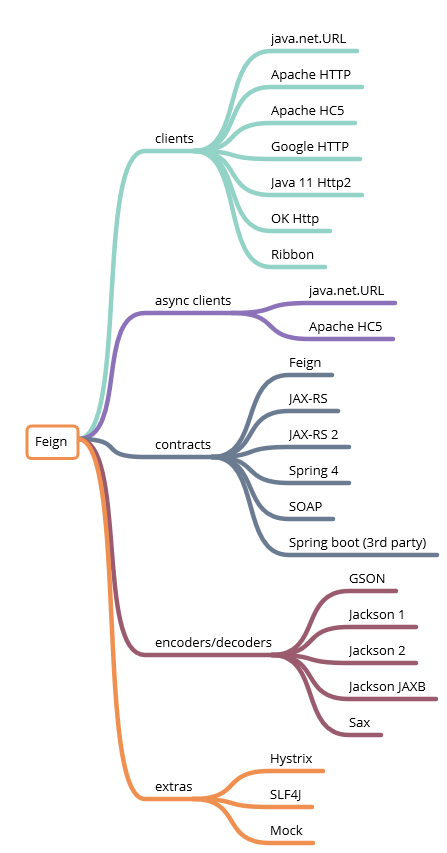
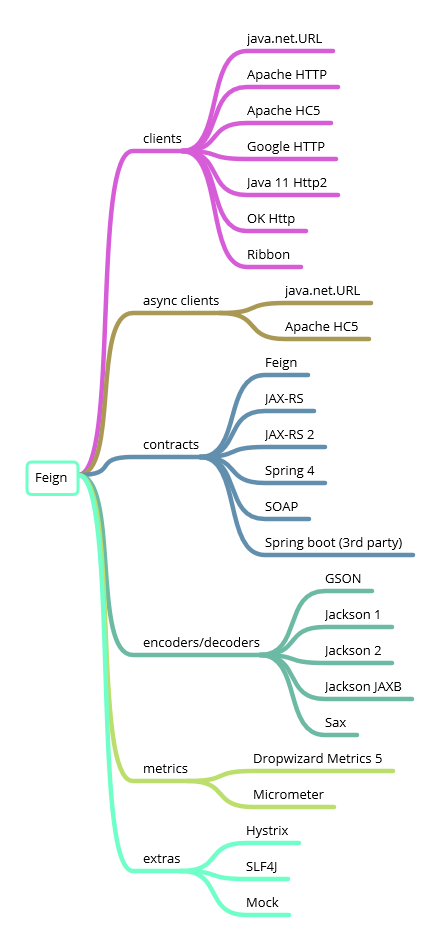
Update documentation with metrics information

Changed region(s): [[0.0307, 0.0305, 0.9835, 1.0]]

diff --git a/dropwizard-metrics5/src/test/java/feign/metrics5/Metrics5CapabilityTest.java b/dropwizard-metrics5/src/test/java/feign/metrics5/Metrics5CapabilityTest.java
@@ -56,12 +56,11 @@ public class Metrics5CapabilityTest {
         "Expect all metric names to include method name:" + metricName,
         metricName.getTags(),
         hasEntry("method", "get")));
-    registry.getMetrics().keySet().forEach(
-        metricName -> assertThat(
-            "Expect all metric names to include host name:" + metricName,
-            metricName.getTags(),
-            // hostname is null due to feign-mock shortfalls
-            hasEntry("host", null)));
+    registry.getMetrics().keySet().forEach(metricName -> assertThat(
+        "Expect all metric names to include host name:" + metricName,
+        metricName.getTags(),
+        // hostname is null due to feign-mock shortfalls
+        hasEntry("host", null)));
   }
 
 }

diff --git a/README.md b/README.md
@@ -26,10 +26,10 @@ This is a map with current key features provided by feign:
 ![MindMap overview](src/docs/overview.png)
 
 # Roadmap
-## Feign 11 and beyond 
+## Feign 11 and beyond
 Making _API_ clients easier
 
-Short Term - What we're working on now. ⏰ 
+Short Term - What we're working on now. ⏰
 ---
 * Response Caching
   * Support caching of api responses.  Allow for users to define under what conditions a response is eligible for caching and what type of caching mechanism should be used.
@@ -42,22 +42,20 @@ Short Term - What we're working on now. ⏰
 * `Retry` API refactor
   * Refactor the `Retry` API to support user-supplied conditions and better control over back-off policies. **This may result in non-backward-compatible breaking changes**
 
-Medium Term - What's up next. ⏲ 
+Medium Term - What's up next. ⏲
 ---
-* Metric API
-  * Provide a first-class Metrics API that users can tap into to gain insight into the request/response lifecycle.  Possibly provide better [OpenTracing](https://opentracing.io/) support.
 * Async execution support via `CompletableFuture`
   * Allow for `Future` chaining and executor management for the request/response lifecycle.  **Implementation will require non-backward-compatible breaking changes**.  However this feature is required before Reactive execution can be considered.
 * Reactive execution support via [Reactive Streams](https://www.reactive-streams.org/)
   * For JDK 9+, consider a native implementation that uses `java.util.concurrent.Flow`.
   * Support for [Project Reactor](https://projectreactor.io/) and [RxJava 2+](https://github.com/ReactiveX/RxJava) implementations on JDK 8.
 
-Long Term - The future ☁ 
+Long Term - The future ☁
 ---
 * Additional Circuit Breaker Support.
   * Support additional Circuit Breaker implementations like [Resilience4J](https://resilience4j.readme.io/) and Spring Circuit Breaker
 
----  
+---
 
 ### Basics
 
@@ -91,7 +89,7 @@ public class MyApp {
     GitHub github = Feign.builder()
                          .decoder(new GsonDecoder())
                          .target(GitHub.class, "https://api.github.com");
-  
+
     // Fetch and print a list of the contributors to this library.
     List<Contributor> contributors = github.contributors("OpenFeign", "feign");
     for (Contributor contributor : contributors) {
@@ -125,22 +123,22 @@ should work.  Feign's default contract defines the following annotations:
 > ```java
 > @RequestLine("POST /repos/{owner}/{repo}/issues")
 > void createIssue(URI host, Issue issue, @Param("owner") String owner, @Param("repo") String repo);
-> ``` 
-> 
+> ```
+>
 
 ### Templates and Expressions
 
 Feign `Expressions` represent Simple String Expressions (Level 1) as defined by [URI Template - RFC 6570](https://tools.ietf.org/html/rfc6570).  `Expressions` are expanded using
-their corresponding `Param` annotated method parameters.  
+their corresponding `Param` annotated method parameters.
 
 *Example*
 
 ```java
 public interface GitHub {
-  
+
   @RequestLine("GET /repos/{owner}/{repo}/contributors")
   List<Contributor> contributors(@Param("owner") String owner, @Param("repo") String repository);
-  
+
   class Contributor {
     String login;
     int contributions;
@@ -152,10 +150,10 @@ public class MyApp {
     GitHub github = Feign.builder()
                          .decoder(new GsonDecoder())
                          .target(GitHub.class, "https://api.github.com");
-    
+
     /* The owner and repository parameters will be used to expand the owner and repo expressions
      * defined in the RequestLine.
-     * 
+     *
      * the resulting uri will be https://api.github.com/repos/OpenFeign/feign/contributors
      */
     github.contributors("OpenFeign", "feign");
@@ -222,8 +220,8 @@ http://localhost:8080/test
 See [Advanced Usage](#advanced-usage) for more examples.
 
 > **What about slashes? `/`**
-> 
-> @RequestLine templates do not encode slash `/` characters by default.  To change this behavior, set the `decodeSlash` property on the `@RequestLine` to `false`.  
+>
+> @RequestLine templates do not encode slash `/` characters by default.  To change this behavior, set the `decodeSlash` property on the `@RequestLine` to `false`.
 
 > **What about plus? `+`**
 >
@@ -232,7 +230,7 @@ See [Advanced Usage](#advanced-usage) for more examples.
 > `+` symbol should not represent a space and is explicitly encoded as `%2B` when found on a query string.
 >
 > If you wish to use `+` as a space, then use the literal ` ` character or encode the value directly as `%20`
- 
+
 ##### Custom Expansion
 
 The `@Param` annotation has an optional property `expander` allowing for complete control over the individual parameter's expansion.
@@ -246,9 +244,9 @@ public interface Expander {
 The result of this method adheres to the same rules stated above.  If the result is `null` or an empty string,
 the value is omitted.  If the value is not pct-encoded, it will be.  See [Custom @Param Expansion](#custom-param-expansion) for more examples.
 
-#### Request Headers Expansion 
+#### Request Headers Expansion
 
-`Headers` and `HeaderMap` templates follow the same rules as [Request Parameter Expansion](#request-parameter-expansion) 
+`Headers` and `HeaderMap` templates follow the same rules as [Request Parameter Expansion](#request-parameter-expansion)
 with the following alterations:
 
 * Unresolved expressions are omitted.  If the result is an empty header value, the entire header is removed.
@@ -256,7 +254,7 @@ with the following alterations:
 
 See [Headers](#headers) for examples.
 
-> **A Note on `@Param` parameters and their names**: 
+> **A Note on `@Param` parameters and their names**:
 >
 > All expressions with the same name, regardless of their position on the `@RequestLine`, `@QueryMap`, `@BodyTemplate`, or `@Headers` will resolve to the same value.
 > In the following example, the value of `contentType`, will be used to resolve both the header and path expression:
@@ -268,12 +266,12 @@ See [Headers](#headers) for examples.
 >   String getDocumentByType(@Param("contentType") String type);
 > }
 >```
-> 
+>
 > Keep this in mind when designing your interfaces.
 
 #### Request Body Expansion
 
-`Body` templates follow the same rules as [Request Parameter Expansion](#request-parameter-expansion) 
+`Body` templates follow the same rules as [Request Parameter Expansion](#request-parameter-expansion)
 with the following alterations:
 
 * Unresolved expressions are omitted.
@@ -311,7 +309,7 @@ public class CloudService {
     CloudDNS cloudDNS = Feign.builder()
       .target(new CloudIdentityTarget<CloudDNS>(user, apiKey));
   }
-  
+
   class CloudIdentityTarget extends Target<CloudDNS> {
     /* implementation of a Target */
   }
@@ -571,7 +569,7 @@ public class Example {
     LoginClient client = Feign.builder()
                               .encoder(new GsonEncoder())
                               .target(LoginClient.class, "https://foo.com");
-    
+
     client.login(new Credentials("denominator", "secret"));
   }
 }
@@ -648,11 +646,11 @@ These approaches specify header entries as part of the api and do not require an
 when building the Feign client.
 
 #### Setting headers per target
-To customize headers for each request method on a Target, a RequestInterceptor can be used. RequestInterceptors can be 
-shared across Target instances and are expected to be thread-safe. RequestInterceptors are applied to all request 
+To customize headers for each request method on a Target, a RequestInterceptor can be used. RequestInterceptors can be
+shared across Target instances and are expected to be thread-safe. RequestInterceptors are applied to all request
 methods on a Target.
 
-If you need per method customization, a custom Target is required, as the a RequestInterceptor does not have access to 
+If you need per method customization, a custom Target is required, as the a RequestInterceptor does not have access to
 the current method metadata.
 
 For an example of setting headers using a `RequestInterceptor`, see the `Request Interceptors` section.
@@ -664,7 +662,7 @@ Headers can be set as part of a custom `Target`.
     public DynamicAuthTokenTarget(Class<T> clazz,
                                   UrlAndTokenProvider provider,
                                   ThreadLocal<String> requestIdProvider);
-    
+
     @Override
     public Request apply(RequestTemplate input) {
       TokenIdAndPublicURL urlAndToken = provider.get();
@@ -677,7 +675,7 @@ Headers can be set as part of a custom `Target`.
       return input.request();
     }
   }
-  
+
   public class Example {
     public static void main(String[] args) {
       Bank bank = Feign.builder()
@@ -755,7 +753,7 @@ public class Example {
 }
 ```
 
-> **A Note on JavaLogger**: 
+> **A Note on JavaLogger**:
 > Avoid using of default ```JavaLogger()``` constructor - it was marked as deprecated and will be removed soon.
 
 The SLF4JLogger (see above) may also be of interest.
@@ -898,11 +896,48 @@ public class Example {
 ```
 
 `Retryer`s are responsible for determining if a retry should occur by returning either a `true` or
-`false` from the method `continueOrPropagate(RetryableException e);`  A `Retryer` instance will be 
+`false` from the method `continueOrPropagate(RetryableException e);`  A `Retryer` instance will be
 created for each `Client` execution, allowing you to maintain state bewteen each request if desired.
 
 If the retry is determined to be unsuccessful, the last `RetryException` will be thrown.  To throw the original
 cause that led to the unsuccessful retry, build your Feign client with the `exceptionPropagationPolicy()` option.
+
+### Metrics
+By default, feign won't collect any metrics.
+
+But, it's possible to add metric collection capabilities to any feign client.
+
+Metric Capabilities provide a first-class Metrics API that users can tap into to gain insight into the request/response lifecycle.
+
+#### Dropwizard Metrics 5
+
+```
+public class MyApp {
+  public static void main(String[] args) {
+    GitHub github = Feign.builder()
+                         .addCapability(new Metrics5Capability())
+                         .target(GitHub.class, "https://api.github.com");
+
+    github.contributors("OpenFeign", "feign");
+    // metrics will be available from this point onwards
+  }
+}
+```
+
+#### Micrometer
+
+```
+public class MyApp {
+  public static void main(String[] args) {
+    GitHub github = Feign.builder()
+                         .addCapability(new MicrometerCapability())
+                         .target(GitHub.class, "https://api.github.com");
+
+    github.contributors("OpenFeign", "feign");
+    // metrics will be available from this point onwards
+  }
+}
+```
 
 #### Static and Default Methods
 Interfaces targeted by Feign may have static or default methods (if using Java 8+).
@@ -956,7 +991,7 @@ public class MyApp {
     GitHub github = AsyncFeign.asyncBuilder()
                          .decoder(new GsonDecoder())
                          .target(GitHub.class, "https://api.github.com");
-  
+
     // Fetch and print a list of the contributors to this library.
     CompletableFuture<List<Contributor>> contributors = github.contributors("OpenFeign", "feign");
     for (Contributor contributor : contributors.get(1, TimeUnit.SECONDS)) {
